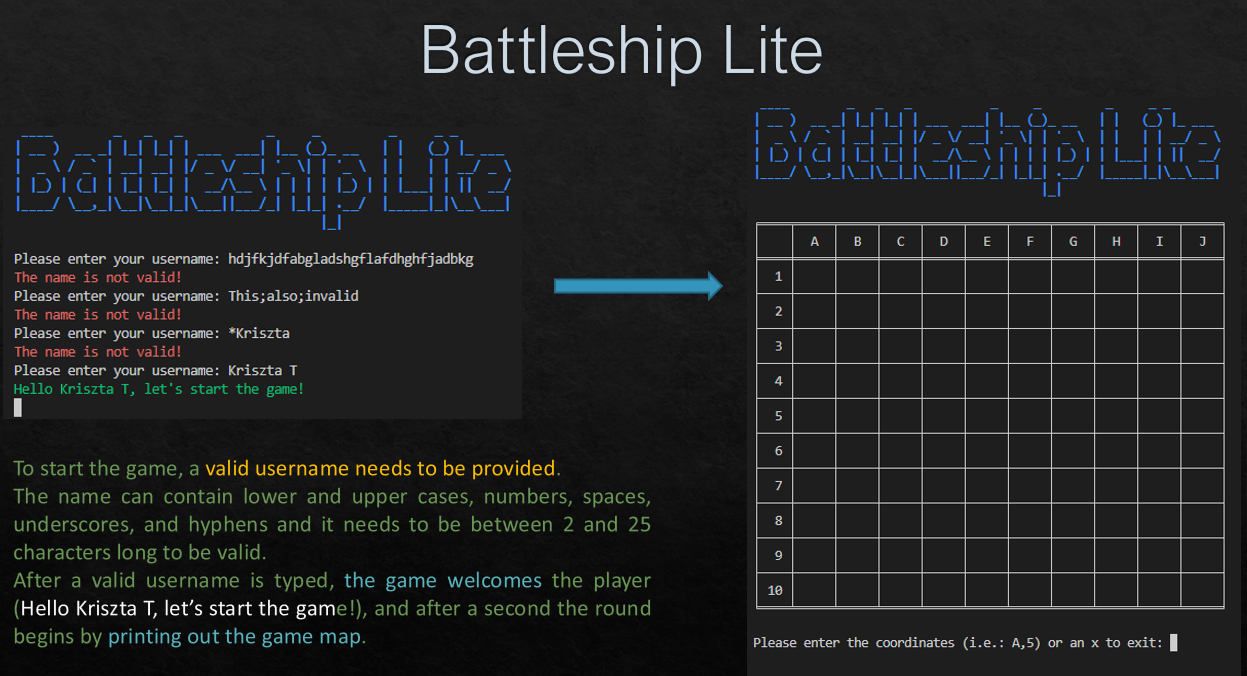
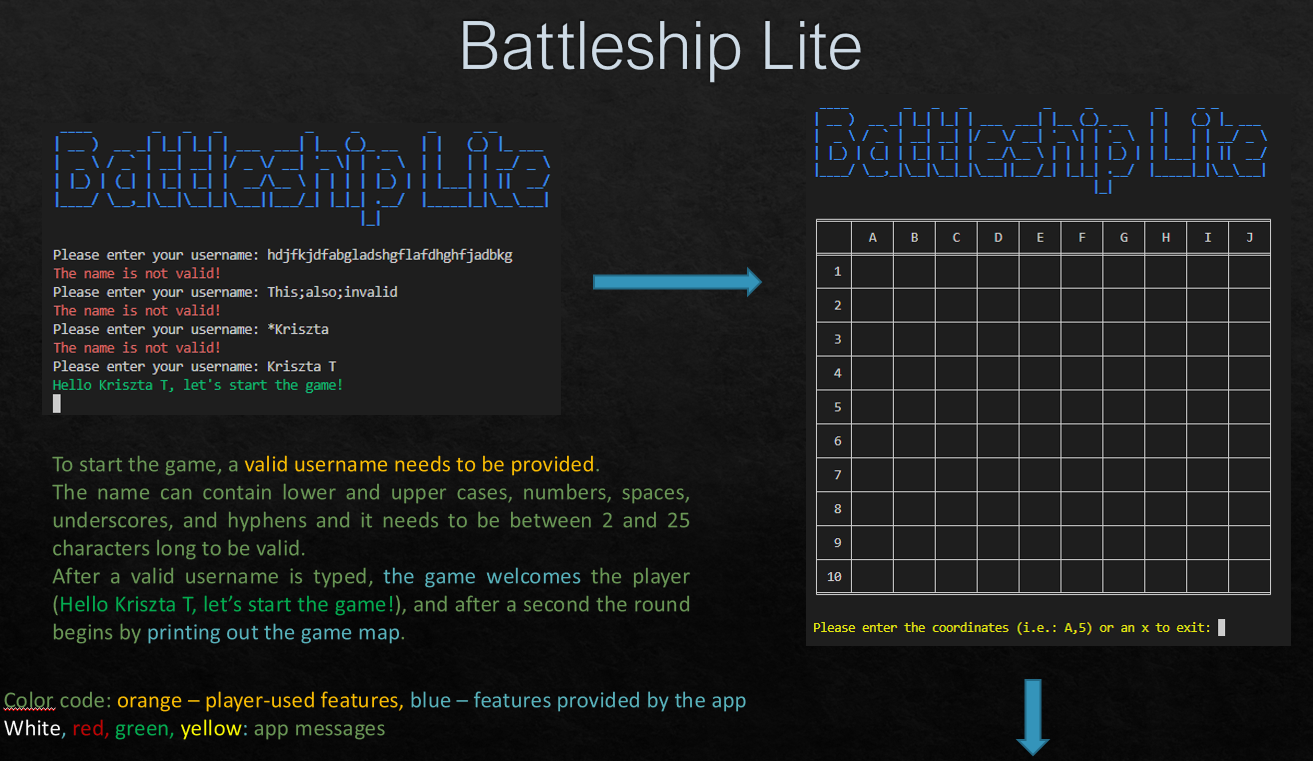
additional coloring added, redame update: colors and implementation plan, minor change shell script

diff --git a/src/battleship.py b/src/battleship.py
@@ -7,7 +7,7 @@ import regex
 from tabulate import tabulate
 from random import randint
 from random import choice
-from termcolor import cprint
+from termcolor import cprint, colored
 from pyfiglet import figlet_format
 
 
@@ -149,10 +149,11 @@ class Game_map:
                     ship_life = ship.get_life()
             self.game_map[y][x] = 'X'
             if (ship_life > 0):
-                self.msg = 'Hit a ' + ship_name + ' that has ' \
-                            + str(ship_life) + ' life left.'
+                self.msg = colored('Hit a ' + ship_name + ' that has '
+                                   + str(ship_life) + ' life left.', 'green')
             else:
-                self.msg = 'Good Job! You have sunk a ' + ship_name + "."
+                self.msg = colored('Good Job! You have sunk a ' + ship_name
+                                   + ".", 'green')
 
     # check if any ship is still alive
     def check_any_ship_alive(self):
@@ -265,8 +266,9 @@ class Player:
     def handle_shot_coordinates(self, map):
         while map.check_any_ship_alive():
             try:
-                coordinates = input('Please enter the coordinates (i.e.: A,5) '
-                                    + 'or an x to exit: ')
+                prompt = colored('Please enter the coordinates (i.e.: A,5) '
+                                 + 'or an x to exit: ', 'yellow')
+                coordinates = input(prompt)
                 if coordinates == 'x' or coordinates == 'X':
                     sys.exit('You chose to exit the game. Bye!')
                 else:
@@ -309,10 +311,13 @@ class Player:
 
 
 def main():
-    # Create player object and call its methods to greet the player
+    # Create player object and call its methods to greet the player and
+    # handle shotcoordinates
     player = Player()
     player.greet_player()
-    # Create game map object and call its methods to create and print game map
+
+    # Create game map object and call its methods to create, print game
+    # map and add ships
     game_map = Game_map()
     game_map.create_game_map()
     game_map.add_ships()

diff --git a/README.md b/README.md
@@ -53,13 +53,16 @@ After the map is built and the ships are arranged on the map, the Player can sta
 
 # Source control repository
 
-[Battleship Lite Github Repository](https://github.com/KrisztaT/Battleship)
-[Presentation video](https://youtube.com)
+[Battleship Lite Github Repository](https://github.com/KrisztaT/Battleship)  
+[Presentation video](https://youtu.be/G9mrq57ohAU)  
+[Trello Board](https://trello.com/b/aTdTEYkF/battleship-lite)
 
 # Style Convention
 
-**PEP 8** was utilised as a code style during the development of the terminal application. I enabled linting in VSC and installed the pycodestyle (pep8) extension to aid me.
+**PEP 8** [^1] was utilised as a code style during the development of the terminal application. I enabled linting in VSC and installed the pycodestyle (pep8) extension to aid me.
 Standard python code convention was also followed to achieve a code that has no syntactical error and runs smoothly.
+
+[^1]: https://peps.python.org/pep-0008/
 
 # Features
 
@@ -234,16 +237,17 @@ The day before the due date, I still need to record the presentation and then up
 
 ![Trello Board 171222](./docs/221217TrelloBoard.png)
 
-And the assessment is officially submitted.
+And the project is officially done on 18/12/2022.
 
+![Trello Board 171222](./docs/221218TrelloBoard.png)
 
 # Help documentation
 
 ## Hardware and software requirements/ Prerequisites to install python from script
 
-* A computer running Debian or using WSL terminal
+* A computer running Debian, debian type distributions (such as ubuntu), Windows using WSL2 terminal or MacOs.
 * Minimum of 2GB RAM and 5GB of disk space
-* Sudo access on the system to install Python on Linux.
+* Sudo access on the system/WSL2 to install Python on Linux.
 
 To run the program the minimum hardware and software requirements are the same as for running python on your computer.
 
